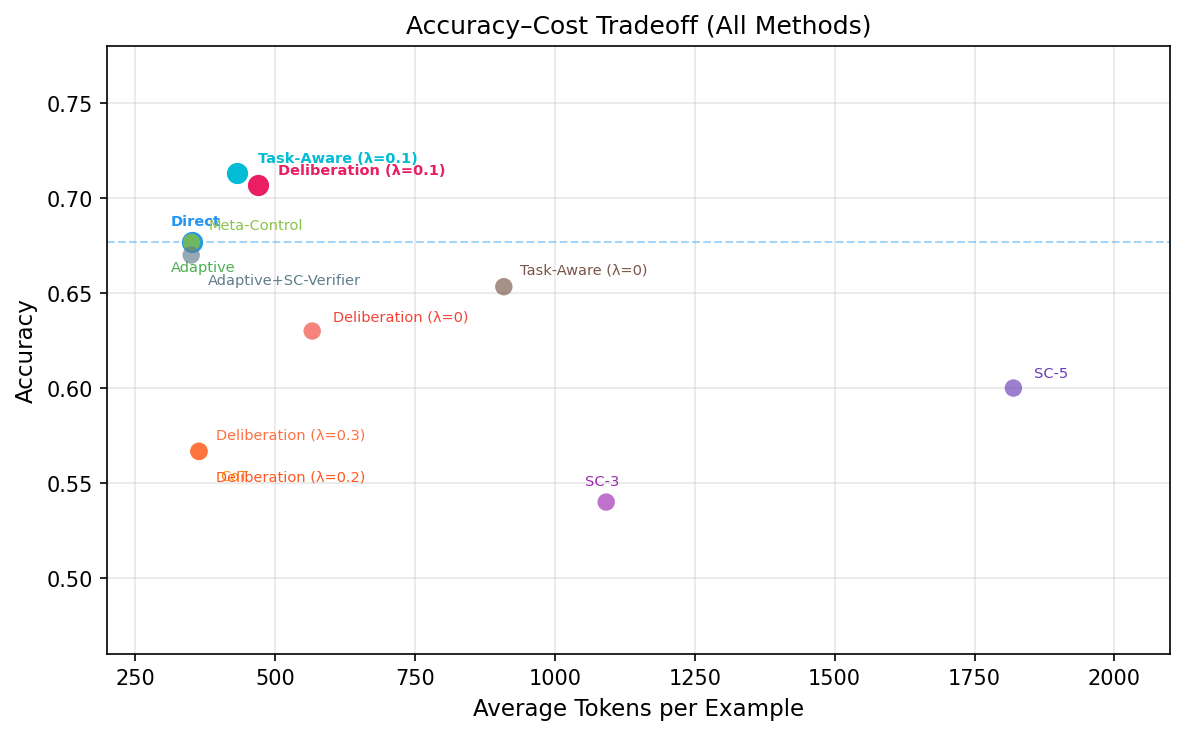
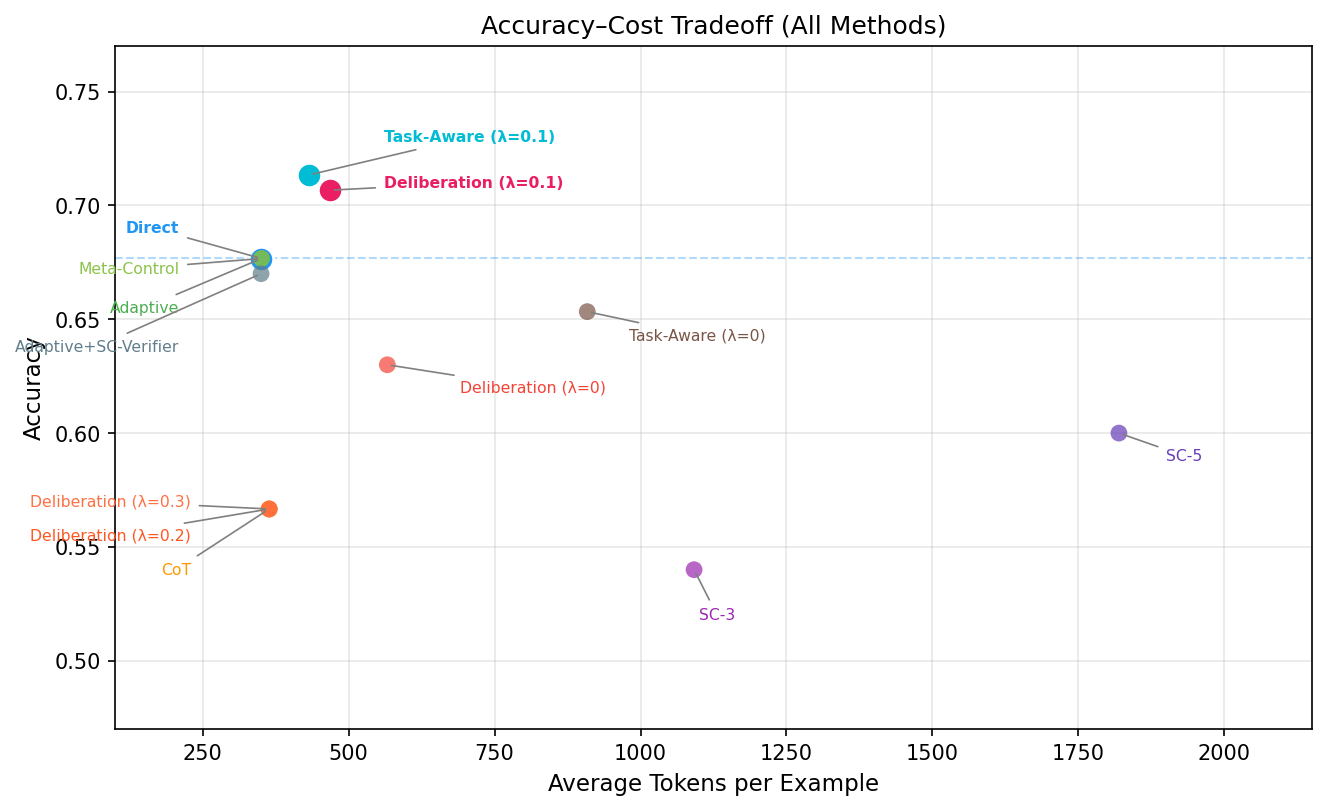
Fix fig1 label overlap: staggered positions with leader arrows

diff --git a/scripts/generate_figures.py b/scripts/generate_figures.py
@@ -107,42 +107,66 @@ def bootstrap_ci(correct: list[bool], n_boot: int = 2000, ci: float = 0.95):
 # ---------------------------------------------------------------------------
 
 def fig_accuracy_cost(all_records: dict, fig_dir: Path) -> None:
-    fig, ax = plt.subplots(figsize=(8, 5))
+    fig, ax = plt.subplots(figsize=(9, 5.5))
 
-    # Highlight best methods
     highlight = {"task_aware_lambda0.1", "deliberation_lambda0.1", "direct"}
 
+    # Collect all points first
+    points = {}
     for method, records in all_records.items():
         s = method_stats(records)
-        size = 130 if method in highlight else 70
-        alpha = 1.0 if method in highlight else 0.65
-        ax.scatter(s["avg_tokens"], s["accuracy"],
-                   color=COLORS.get(method, "gray"), s=size, zorder=3, alpha=alpha,
-                   edgecolors="white" if method in highlight else "none", linewidths=1.2)
-        label = METHOD_LABELS.get(method, method)
-        offsets = {
-            "direct": (-10, 8),
-            "cot": (10, -14),
-            "adaptive": (-10, -14),
-            "meta_control_only": (8, 6),
-            "adaptive_sc_verifier": (8, -14),
-            "deliberation_lambda0.2": (8, -14),
-            "deliberation_lambda0.3": (8, 6),
-            "self_consistency": (-10, 8),
-            "task_aware": (8, 6),
-        }
-        ox, oy = offsets.get(method, (10, 5))
-        ax.annotate(label, (s["avg_tokens"], s["accuracy"]),
-                    textcoords="offset points", xytext=(ox, oy),
-                    fontsize=7, color=COLORS.get(method, "gray"),
-                    fontweight="bold" if method in highlight else "normal")
+        points[method] = (s["avg_tokens"], s["accuracy"])
 
-    ax.axhline(0.677, color=COLORS["direct"], linestyle="--", linewidth=1, alpha=0.4)
+    # Draw dots
+    for method, (x, y) in points.items():
+        size = 140 if method in highlight else 65
+        alpha = 1.0 if method in highlight else 0.7
+        ax.scatter(x, y, color=COLORS.get(method, "gray"), s=size, zorder=3,
+                   alpha=alpha,
+                   edgecolors="white" if method in highlight else "none",
+                   linewidths=1.5)
+
+    # --- manually positioned labels with leader arrows for dense cluster ---
+    # Methods that live in the ~350-tok cluster need staggered text positions
+    arrow_kw = dict(arrowstyle="-", color="gray", lw=0.8,
+                    connectionstyle="arc3,rad=0.0")
+
+    label_positions = {
+        # (text_x, text_y, ha, va)  — data coordinates
+        "task_aware_lambda0.1":    (560,  0.730, "left",   "center"),
+        "deliberation_lambda0.1":  (560,  0.710, "left",   "center"),
+        "direct":                  (210,  0.690, "right",  "center"),
+        "meta_control_only":       (210,  0.672, "right",  "center"),
+        "adaptive":                (210,  0.655, "right",  "center"),
+        "adaptive_sc_verifier":    (210,  0.638, "right",  "center"),
+        "cot":                     (230,  0.540, "right",  "center"),
+        "deliberation_lambda0.2":  (230,  0.555, "right",  "center"),
+        "deliberation_lambda0.3":  (230,  0.570, "right",  "center"),
+        "deliberation_only":       (690,  0.620, "left",   "center"),
+        "task_aware":              (980,  0.643, "left",   "center"),
+        "self_consistency":        (1100, 0.520, "left",   "center"),
+        "sc5":                     (1900, 0.590, "left",   "center"),
+    }
+
+    for method, (tx, ty, ha, va) in label_positions.items():
+        if method not in points:
+            continue
+        px, py = points[method]
+        label = METHOD_LABELS.get(method, method)
+        fw = "bold" if method in highlight else "normal"
+        ax.annotate(
+            label, xy=(px, py), xytext=(tx, ty),
+            ha=ha, va=va, fontsize=7.5,
+            color=COLORS.get(method, "gray"), fontweight=fw,
+            arrowprops=arrow_kw if abs(tx - px) > 20 or abs(ty - py) > 0.005 else None,
+        )
+
+    ax.axhline(0.677, color=COLORS["direct"], linestyle="--", linewidth=1, alpha=0.35)
     ax.set_xlabel("Average Tokens per Example", fontsize=11)
     ax.set_ylabel("Accuracy", fontsize=11)
     ax.set_title("Accuracy–Cost Tradeoff (All Methods)", fontsize=12)
-    ax.set_xlim(200, 2100)
-    ax.set_ylim(0.46, 0.78)
+    ax.set_xlim(100, 2150)
+    ax.set_ylim(0.47, 0.77)
     ax.grid(True, alpha=0.3)
     fig.tight_layout()
     _save(fig, fig_dir / "fig1_accuracy_cost")
